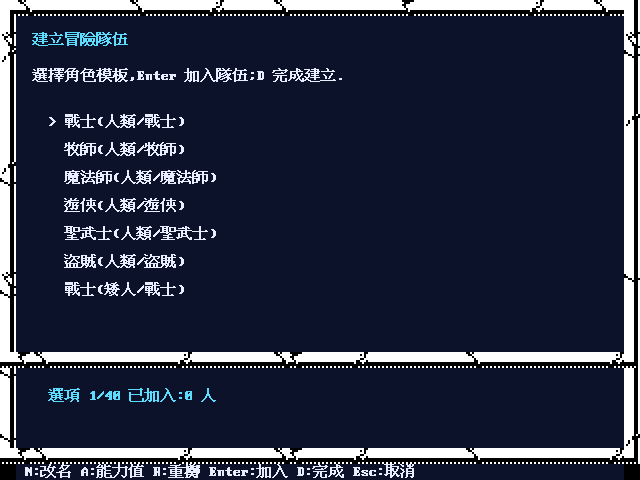
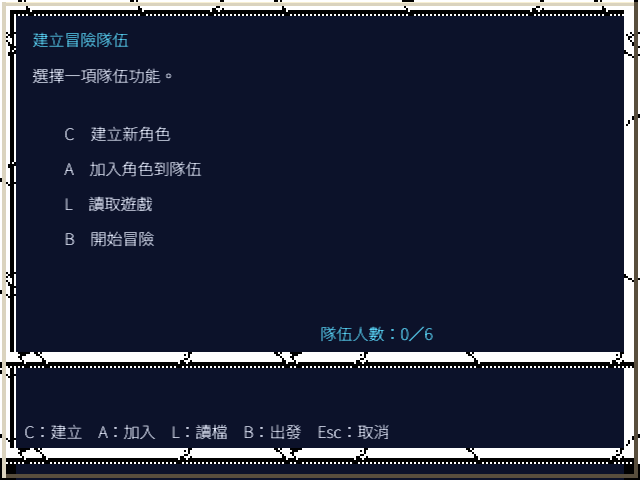
fix: 建角框那三行文字改用框自己的安全區
角色 VIEW 的底部提示與建角選項清單的提示都用 adventureCommandBaseline
（478）。那個值屬於冒險框的延伸指令列內部（y=464..479），但這兩個畫面用的
是 gfx.ExtendedCharacterCreationFrame()——它 2× 之後在 y=448..457 有底部
框帶，所以整行沒入框裡，畫面上只剩上半截。外層選單的「隊伍人數」畫在
y=355，同樣正好落在框的中間分隔帶（352..361）。

三處都改用這個框自己的安全區：提示走 creationFrameHelpBaseline（438，
spec 1246 已經為建角外層頁定過），隊伍人數走 creationFramePartyCountY
（340，在成員清單之下、分隔帶之上）。safeBottomBaseline 擋不住這一類，
它只在 modern-a6 生效而且是為冒險框的下緣算的。

這種失效是「字畫得出來但被框蓋住」，逐張人工看會漏——spec 1246 兩份的
驗證段都寫過「文字留在框內」。所以改由測試對著框本身驗：
creation_frame_baseline_test.go 掃框自己的不透明橫帶算出空白區間，斷言
每個基線連同下伸部都落在裡面，框帶座標不寫死。同檔案帶一則正對照，
adventureCommandBaseline 必須被判為不安全。

契約寫成 spec 1252，兩份 1246 加指標。三張受影響的 manifest 截圖重拍並
更新雜湊；guided-party-assembly 的 generation_mode 補回漏記的
-guided-creation-name（少了它重拍出來會是英文名，驗不到中文字形）。
回歸對照：-guided-creation、-inn、-camp-row camp 三張與修正前逐位元組
相同。全套測試與截圖稽核（21 張）通過。

diff --git a/cmd/azure-bonds-game/main.go b/cmd/azure-bonds-game/main.go
@@ -53,6 +53,13 @@ const (
 	logicalHeight            = 480
 	adventureMessageBaseline = 300 // Leave a clear CJK leading below the DOS divider at y=256..271.
 	adventureCommandBaseline = 478 // Extended DOS command interior is y=464..479.
+	// 用 gfx.ExtendedCharacterCreationFrame() 的畫面（建角與角色 VIEW）版面不同：
+	// 2× 之後框在 y=352..361 有中間分隔帶、y=448..457 有底部框帶，文字只能落在
+	// 上面板（..351）或兩帶之間的下面板（368..447）。adventureCommandBaseline
+	// 的 478 屬於冒險框那條延伸指令列，畫在這個框上會整行沒入底部框帶。
+	// 438 是 spec 1246 已經為建角外層頁定出來的下面板安全基線。
+	creationFrameHelpBaseline = 438
+	creationFramePartyCountY  = 340 // 上面板內，位在隊伍成員清單（最低 y=290）之下。
 )
 
 type app struct {
@@ -3077,7 +3084,6 @@ func (a *app) drawCreation(screen *ebiten.Image, white, cyan color.Color) {
 	// larger display face makes the original option density impossible.
 	a.drawCharacterCreationFrame(screen)
 	face := a.compactFace
-	const creationHelpBaseline = 438
 	drawFittedText(screen, a.state.LocaleText("creation_title"), face, 32, 46, 576, cyan)
 	drawFittedText(screen, a.state.CreationMessage, face, 32, 82, 576, white)
 	if a.state.GuidedActive {
@@ -3095,7 +3101,7 @@ func (a *app) drawCreation(screen *ebiten.Image, white, cyan color.Color) {
 				}
 				drawFittedText(screen, prefix+label, face, 64, 140+index*35, 512, white)
 			}
-			drawFittedText(screen, a.state.LocaleText("creation_source_help"), face, 24, creationHelpBaseline, 600, white)
+			drawFittedText(screen, a.state.LocaleText("creation_source_help"), face, 24, creationFrameHelpBaseline, 600, white)
 		case game.CreationCharacterList:
 			if len(a.state.CreationLibrary) == 0 {
 				drawFittedText(screen, a.state.LocaleText("creation_library_empty"), face, 48, 140, 544, white)
@@ -3112,7 +3118,7 @@ func (a *app) drawCreation(screen *ebiten.Image, white, cyan color.Color) {
 					a.state.CharacterRaceName(character.Race), a.state.CharacterClassName(character.Class))
 				drawFittedText(screen, row, face, 48, 140+index*35, 544, white)
 			}
-			drawFittedText(screen, a.state.LocaleText("creation_library_help"), face, 24, creationHelpBaseline, 600, white)
+			drawFittedText(screen, a.state.LocaleText("creation_library_help"), face, 24, creationFrameHelpBaseline, 600, white)
 		default:
 			options := []string{a.state.LocaleText("creation_outer_create"), a.state.LocaleText("creation_outer_add"), a.state.LocaleText("creation_outer_load"), a.state.LocaleText("creation_outer_begin")}
 			for index, option := range options {
@@ -3123,8 +3129,8 @@ func (a *app) drawCreation(screen *ebiten.Image, white, cyan color.Color) {
 					a.state.CharacterRaceName(character.Race), a.state.CharacterClassName(character.Class))
 				drawFittedText(screen, row, face, 320, 140+index*30, 288, white)
 			}
-			drawFittedText(screen, fmt.Sprintf(a.state.LocaleText("creation_party_count"), len(a.state.CreationRoster), 6), face, 320, 355, 288, cyan)
-			drawFittedText(screen, a.state.LocaleText("creation_outer_help"), face, 24, creationHelpBaseline, 600, white)
+			drawFittedText(screen, fmt.Sprintf(a.state.LocaleText("creation_party_count"), len(a.state.CreationRoster), 6), face, 320, creationFramePartyCountY, 288, cyan)
+			drawFittedText(screen, a.state.LocaleText("creation_outer_help"), face, 24, creationFrameHelpBaseline, 600, white)
 		}
 		return
 	}
@@ -3173,7 +3179,7 @@ func (a *app) drawCreation(screen *ebiten.Image, white, cyan color.Color) {
 	}
 	drawFittedText(screen, fmt.Sprintf(a.state.LocaleText("creation_progress"), a.state.CreationCursor+1,
 		len(a.state.CreationOptions), len(a.state.CreationRoster)), face, 48, 402, 544, cyan)
-	drawFittedText(screen, a.state.LocaleText("creation_help"), face, 24, adventureCommandBaseline, 600, white)
+	drawFittedText(screen, a.state.LocaleText("creation_help"), face, 24, creationFrameHelpBaseline, 600, white)
 }
 
 func (a *app) drawCharacterView(screen *ebiten.Image, white, cyan color.Color) {
@@ -3235,7 +3241,7 @@ func (a *app) drawCharacterView(screen *ebiten.Image, white, cyan color.Color) {
 		}
 		drawFittedText(screen, prefix+choice, face, 48, 416+index*24, 544, white)
 	}
-	drawFittedText(screen, a.state.Prompt, face, 24, adventureCommandBaseline, 600, cyan)
+	drawFittedText(screen, a.state.Prompt, face, 24, creationFrameHelpBaseline, 600, cyan)
 }
 
 func (a *app) drawCombat(screen *ebiten.Image, white, cyan color.Color) {

diff --git a/cmd/azure-bonds-game/creation_frame_baseline_test.go b/cmd/azure-bonds-game/creation_frame_baseline_test.go
@@ -1,0 +1,90 @@
+package main
+
+import (
+	"testing"
+
+	"github.com/wicanr2/Curse-of-the-Azure-Bonds-cht/internal/gfx"
+)
+
+// 16x15 點陣 CJK 字在基線以下的下伸部；再加一點餘裕，讓字不會貼著框帶的邊。
+const (
+	cjkGlyphDescent   = 4
+	baselineClearance = 2
+)
+
+// creationFrameBands 掃出 gfx.ExtendedCharacterCreationFrame() 在 640x480
+// （2×）座標下的不透明橫帶。框自己畫在哪、留哪些空白，由框決定，不寫死。
+func creationFrameBands(t *testing.T) (bands [][2]int) {
+	t.Helper()
+	frame := gfx.ExtendedCharacterCreationFrame()
+	bounds := frame.Bounds()
+	// 取版面中段的水平區間判斷，避開左右兩側的直框邊。
+	left, right := bounds.Min.X+bounds.Dx()/2, bounds.Max.X-8
+	start := -1
+	for y := bounds.Min.Y; y < bounds.Max.Y; y++ {
+		opaque := 0
+		for x := left; x < right; x++ {
+			if _, _, _, alpha := frame.At(x, y).RGBA(); alpha != 0 {
+				opaque++
+			}
+		}
+		solid := opaque*10 > (right-left)*6
+		switch {
+		case solid && start < 0:
+			start = y
+		case !solid && start >= 0:
+			bands = append(bands, [2]int{start * 2, y * 2})
+			start = -1
+		}
+	}
+	if start >= 0 {
+		bands = append(bands, [2]int{start * 2, bounds.Max.Y * 2})
+	}
+	return bands
+}
+
+// baselineFits 回報 baseline 那一整行字是否完全落在兩條框帶之間的空白裡。
+func baselineFits(bands [][2]int, baseline int) bool {
+	bottom := baseline + cjkGlyphDescent + baselineClearance
+	for _, band := range bands {
+		// 字的下緣或基線本身壓進框帶就不算安全。
+		if baseline >= band[0] && baseline < band[1] {
+			return false
+		}
+		if bottom > band[0] && bottom <= band[1] {
+			return false
+		}
+		if baseline < band[0] && bottom > band[1] {
+			return false
+		}
+	}
+	return bottom <= 480
+}
+
+func TestCreationFrameBaselinesStayInsideTheFramesGaps(t *testing.T) {
+	bands := creationFrameBands(t)
+	if len(bands) < 2 {
+		t.Fatalf("框只掃到 %d 條橫帶，量測方式有問題：%v", len(bands), bands)
+	}
+	for _, tc := range []struct {
+		name     string
+		baseline int
+	}{
+		{"建角與角色 VIEW 的底部提示", creationFrameHelpBaseline},
+		{"外層選單的隊伍人數", creationFramePartyCountY},
+	} {
+		if !baselineFits(bands, tc.baseline) {
+			t.Errorf("%s 的基線 y=%d 壓到框帶；框帶為 %v", tc.name, tc.baseline, bands)
+		}
+	}
+}
+
+// 正對照：冒險框那條 y=478 的指令列基線畫在建角框上必定沒入底部框帶。
+// 這一則失敗就代表上面那則測不出東西。
+func TestAdventureCommandBaselineIsUnsafeOnTheCreationFrame(t *testing.T) {
+	bands := creationFrameBands(t)
+	if baselineFits(bands, adventureCommandBaseline) {
+		t.Fatalf("y=%d 應該落在建角框的底部框帶裡，但被判為安全；框帶為 %v",
+			adventureCommandBaseline, bands)
+	}
+}

diff --git a/docs/spec/1252-creation-frame-text-safe-area.md b/docs/spec/1252-creation-frame-text-safe-area.md
@@ -1,0 +1,60 @@
+# 第一千二百五十二輪：建角框畫面的文字安全區
+
+狀態：`READY`
+
+## 適用範圍
+
+`gfx.ExtendedCharacterCreationFrame()` 這個框由兩類畫面共用：
+
+- 建角與外層隊伍組裝（`drawCreation`，spec 1246 外層流程）
+- 正常 `CAMP → VIEW → 角色` 的角色資料頁（`drawCharacterView`，spec 1246 VIEW）
+
+它和冒險框（`ExtendedAdventureFrame`）**不是同一個版面**，兩者的可寫字區間不同。
+
+## 框的幾何
+
+框本身是 320×240 素材，繪製時 `GeoM.Scale(2, 2)` 放大到 640×480。在 640×480
+座標下，框有兩條橫向不透明帶：
+
+| 帶 | y 範圍（640×480） | 作用 |
+|---|---|---|
+| 中間分隔帶 | 352..361（含 366..367 的裝飾） | 分開上面板與下面板 |
+| 底部框帶 | 448..457（含 462..463 的裝飾） | 版面下緣 |
+
+因此文字只有兩個落點：**上面板** `..351`、**下面板** `368..447`。
+
+## 契約
+
+1. 下面板的提示文字一律用 `creationFrameHelpBaseline = 438`。它讓 16×15 的 CJK
+   字連同下伸部完整落在 `368..447` 之內。
+2. 上面板右欄的隊伍人數用 `creationFramePartyCountY = 340`，位在隊伍成員清單
+   （最低 `y = 140 + 5*30 = 290`）之下、中間分隔帶之上。
+3. **`adventureCommandBaseline`（478）不得用於這個框的任何畫面。** 那個值屬於
+   冒險框的延伸指令列內部（`y = 464..479`），畫在建角框上會整行沒入底部框帶：
+   字仍然畫得出來，但被框的像素蓋住，畫面上只剩上半截。
+4. `safeBottomBaseline` 擋不住這一類：它只在 `modern-a6` theme 生效，而且是為
+   冒險框的下緣（`y = 454`）算的，不是這個框。
+
+## 為什麼要機械檢查
+
+這條規則的失效方式是「文字有畫出來、只是被蓋住」，而不是缺字或崩版。逐張人工
+檢視會漏——**spec 1246 兩份的驗證段都寫過「文字留在框內」，而底部提示當時就是
+被蓋住的**。所以基線改由測試對著框本身驗：
+
+`cmd/azure-bonds-game/creation_frame_baseline_test.go` 掃 `ExtendedCharacterCreationFrame()`
+自己的不透明橫帶，算出空白區間，再斷言上列每個基線連同下伸部都落在空白裡。
+框帶座標不寫死在測試裡，框改了測試跟著改。
+
+同檔案帶一則正對照：`adventureCommandBaseline` 必須被判為不安全。它若通過，
+代表安全區的量測失效，主測試也就測不到東西。
+
+## 驗證
+
+- `go test ./cmd/azure-bonds-game` 通過，含上述兩則。
+- Docker／Xvfb 實拍：角色 VIEW 底部提示（`選擇 <名字> 要整備或卸下的物品`）
+  與外層選單的 `隊伍人數：0／6` 都完整可讀。
+- 回歸對照：`-guided-creation`、`-inn`、`-camp-row camp` 三張截圖與修正前
+  **逐位元組相同**，確認改動沒有波及其他版面。
+
+證據等級：框的橫帶位置為 `exact`（量自素材本身）；基線值為
+`layout-reconstructed`，理由是 CJK 字距與原版 DOS 的英文行距本來就不同。

diff --git a/docs/spec/1246-original-outer-party-assembly.md b/docs/spec/1246-original-outer-party-assembly.md
@@ -84,8 +84,9 @@
 - `cmd/azure-bonds-game/main.go`：C／A／B 正常按鍵路徑與三個全寬頁面。
 - State 測試通過獨立儲存、重載、加入及重複拒絕；真實按鍵測試由標題走到
   提爾佛頓 `(7,13)`，400 幀走過 47 格、英文回退 0、全滅 0。
-- 四語系 640×480 外層頁已由 Docker/Xvfb 抽拍；第一版沿用冒險提示基線而被下框
-  裁切，改為建角安全基線 `y=438` 後繁中實拍完整。
+- 四語系 640×480 外層頁已由 Docker/Xvfb 抽拍；提示用建角框的下面板安全基線
+  `y=438`，繁中實拍完整。這個框的完整安全區契約與機械檢查見
+  [spec 1252](1252-creation-frame-text-safe-area.md)。
 - 2026-08-30 再以正常 DOSBox 路徑抽樣外層、來源與角色清單，並在 remake 的
   真實按鍵 session 於建隊外層及第一張地圖各切換 F2；流程狀態、座標與朝向均未
   漂移。sprite／tileset 的 original／modern-a6 正反分派與完整索引護欄亦通過。
